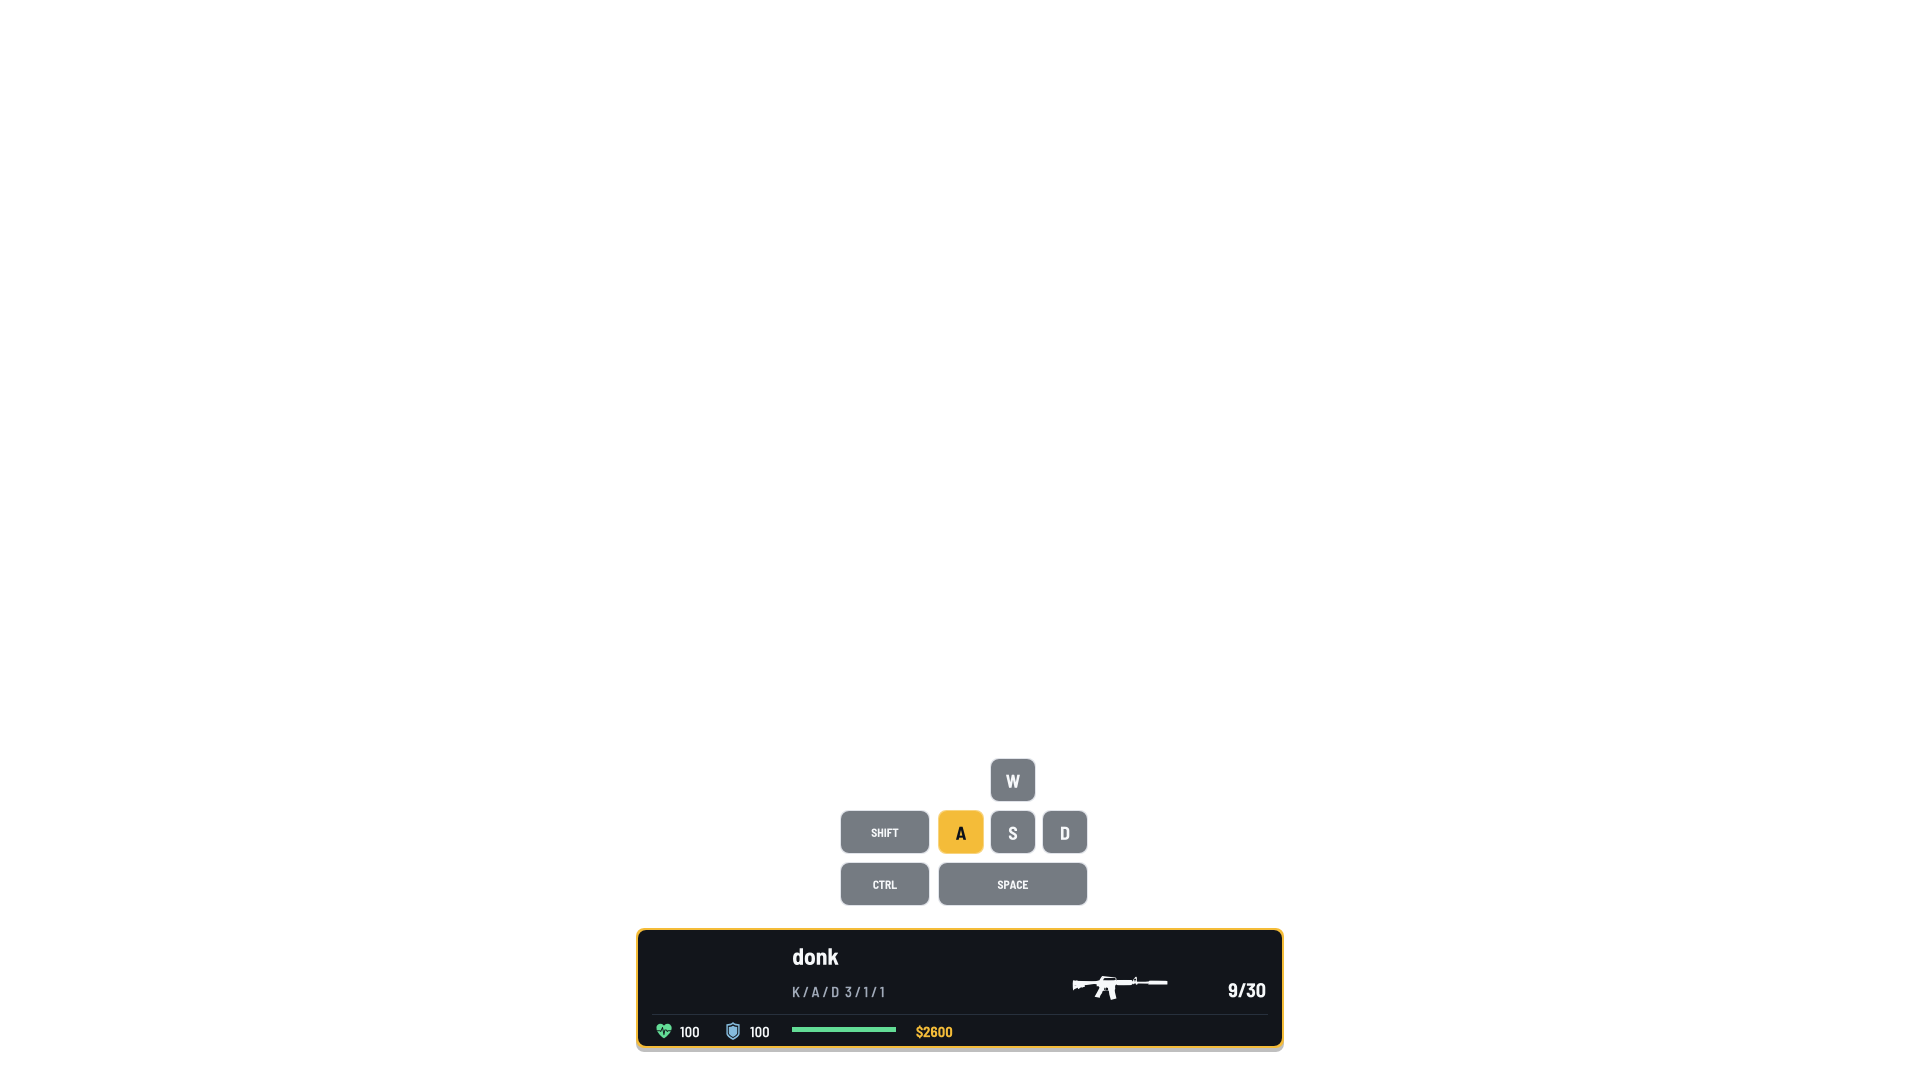
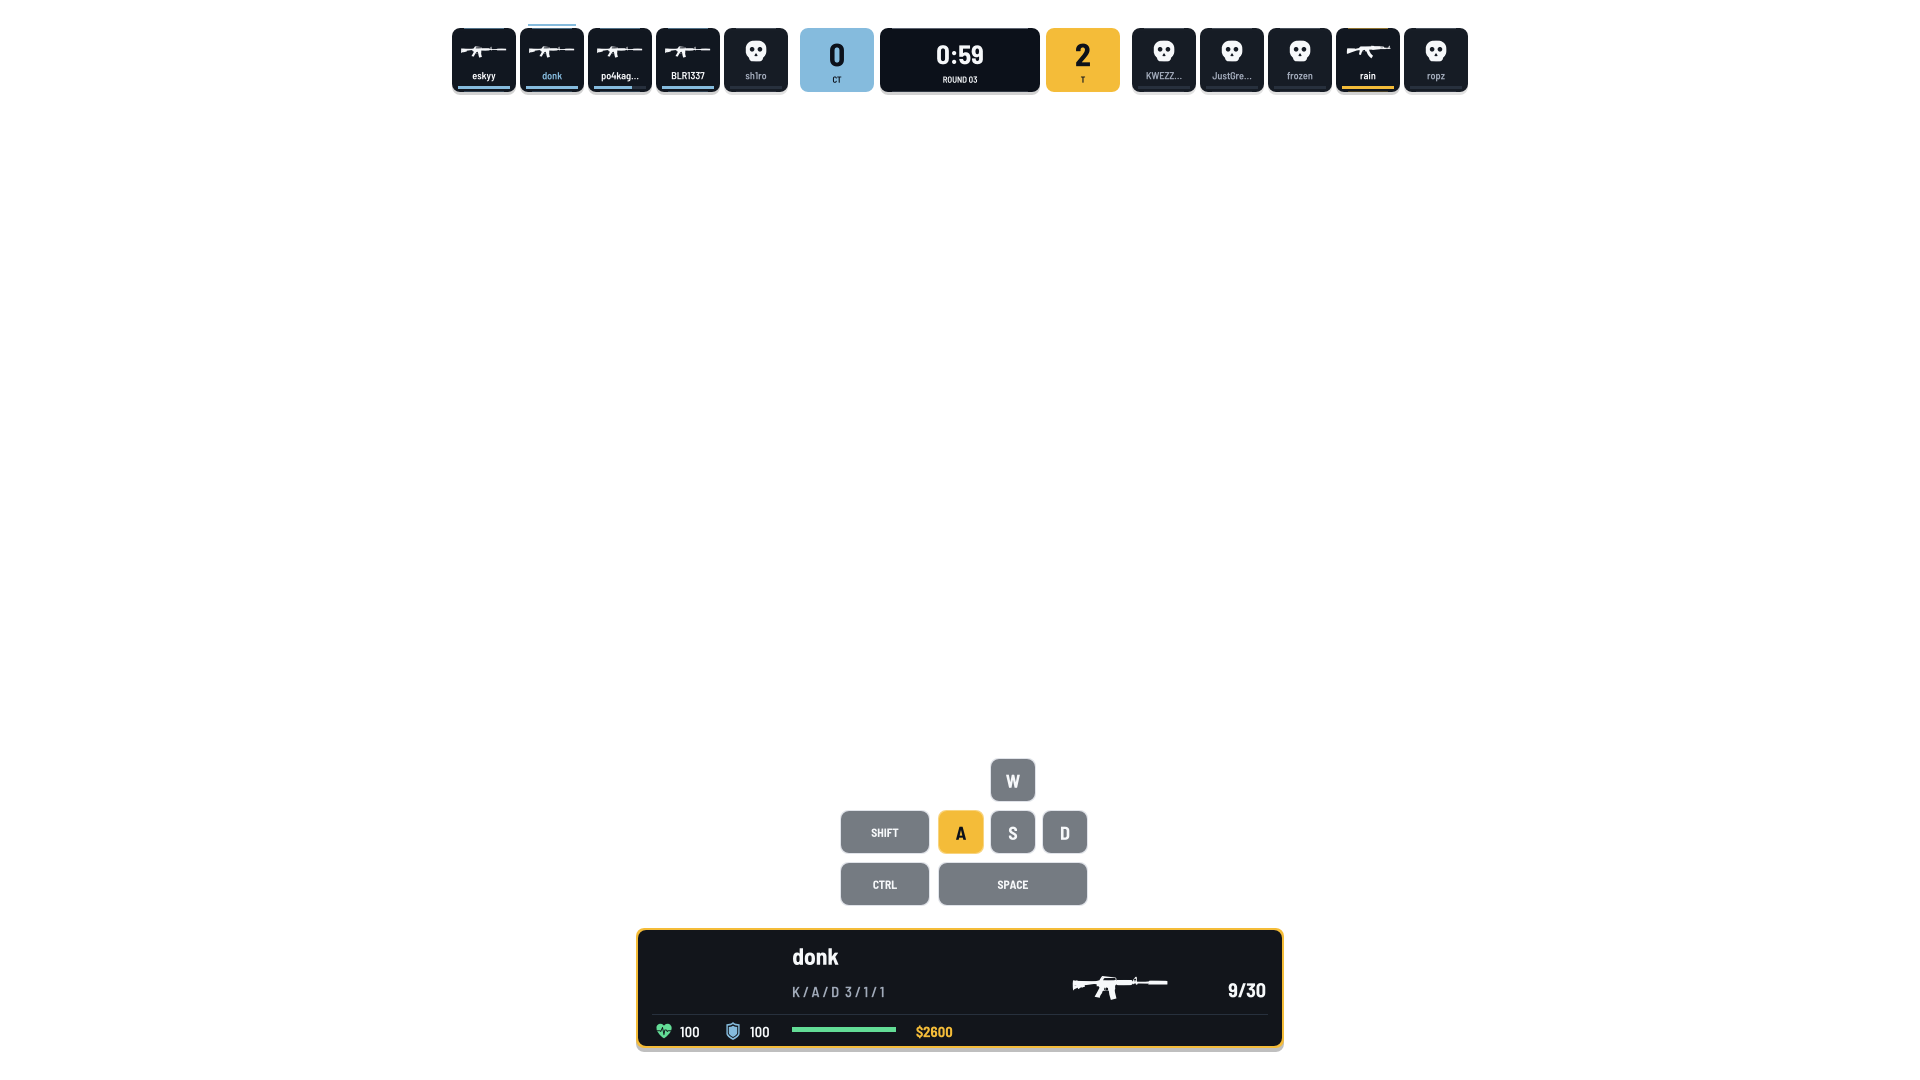
feat(hud): show the scoreboard and roster strip on the Focus layout

Changed region(s): [[0.2188, 0.0, 0.7812, 0.0917]]

diff --git a/internal/customhud/scene.go b/internal/customhud/scene.go
@@ -122,16 +122,6 @@ func (s *scene) panel(id string, x, y, w, h int, accent string) {
 func (r *Renderer) Scene(state Snapshot, target string) []Node {
 	s := &scene{r: r}
 	t := r.Theme
-	if t.Layout == "focus" {
-		for _, p := range state.Players {
-			if p.SteamID == target {
-				s.focusCard(p)
-				break
-			}
-		}
-		sort.SliceStable(s.nodes, func(i, j int) bool { return s.nodes[i].Layer < s.nodes[j].Layer })
-		return s.nodes
-	}
 	var ct, tr []Player
 	for _, p := range state.Players {
 		if p.Inactive {
@@ -164,7 +154,12 @@ func (r *Renderer) Scene(state Snapshot, target string) []Node {
 	}
 	for _, p := range state.Players {
 		if p.SteamID == target {
-			s.focus(p)
+			// Both layouts share the upper strip; only the observed card differs.
+			if t.Layout == "focus" {
+				s.focusCard(p)
+			} else {
+				s.focus(p)
+			}
 			break
 		}
 	}

diff --git a/internal/customhud/reference_layout_test.go b/internal/customhud/reference_layout_test.go
@@ -73,7 +73,7 @@ func TestReferenceLayoutPaintsOnlyTheUpperStripAndLowerCorners(t *testing.T) {
 	for _, theme := range Themes() {
 		regions := allowed
 		if theme.Layout == "focus" {
-			regions = []image.Rectangle{image.Rect(630, 750, 1290, 1055)}
+			regions = []image.Rectangle{allowed[0], image.Rect(630, 750, 1290, 1055)}
 		}
 		r, err := NewRenderer(theme.ID)
 		if err != nil {
